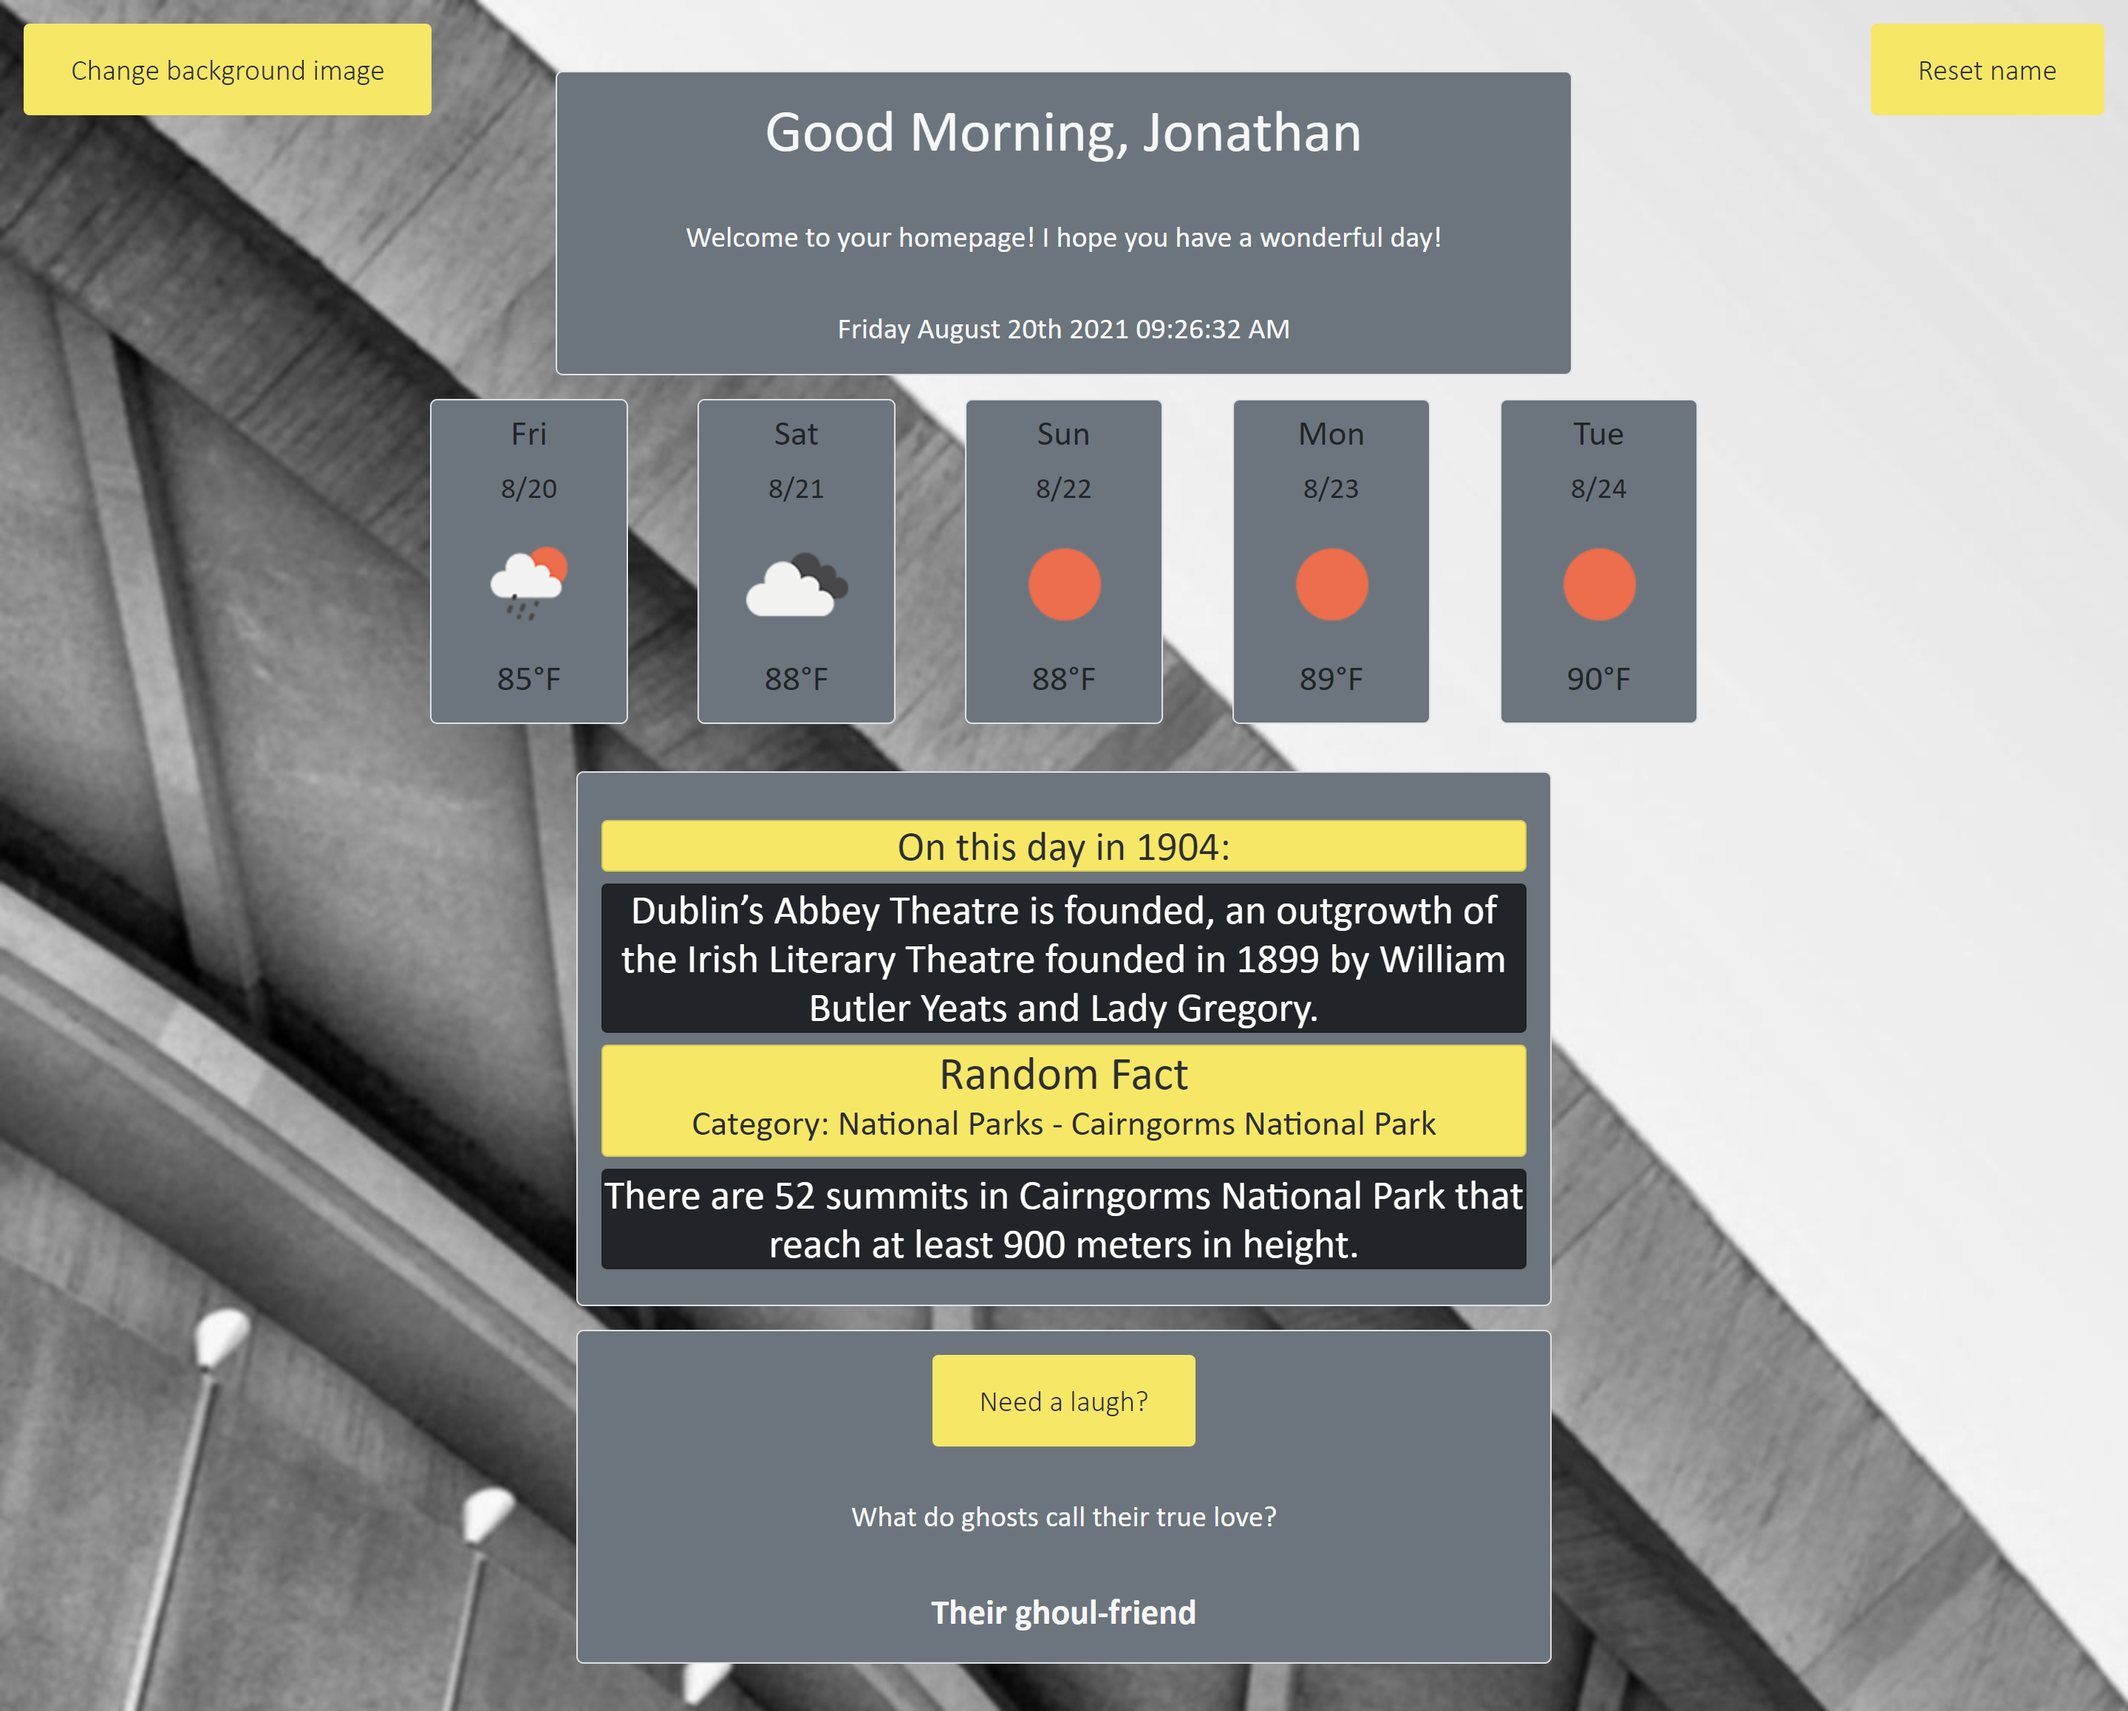
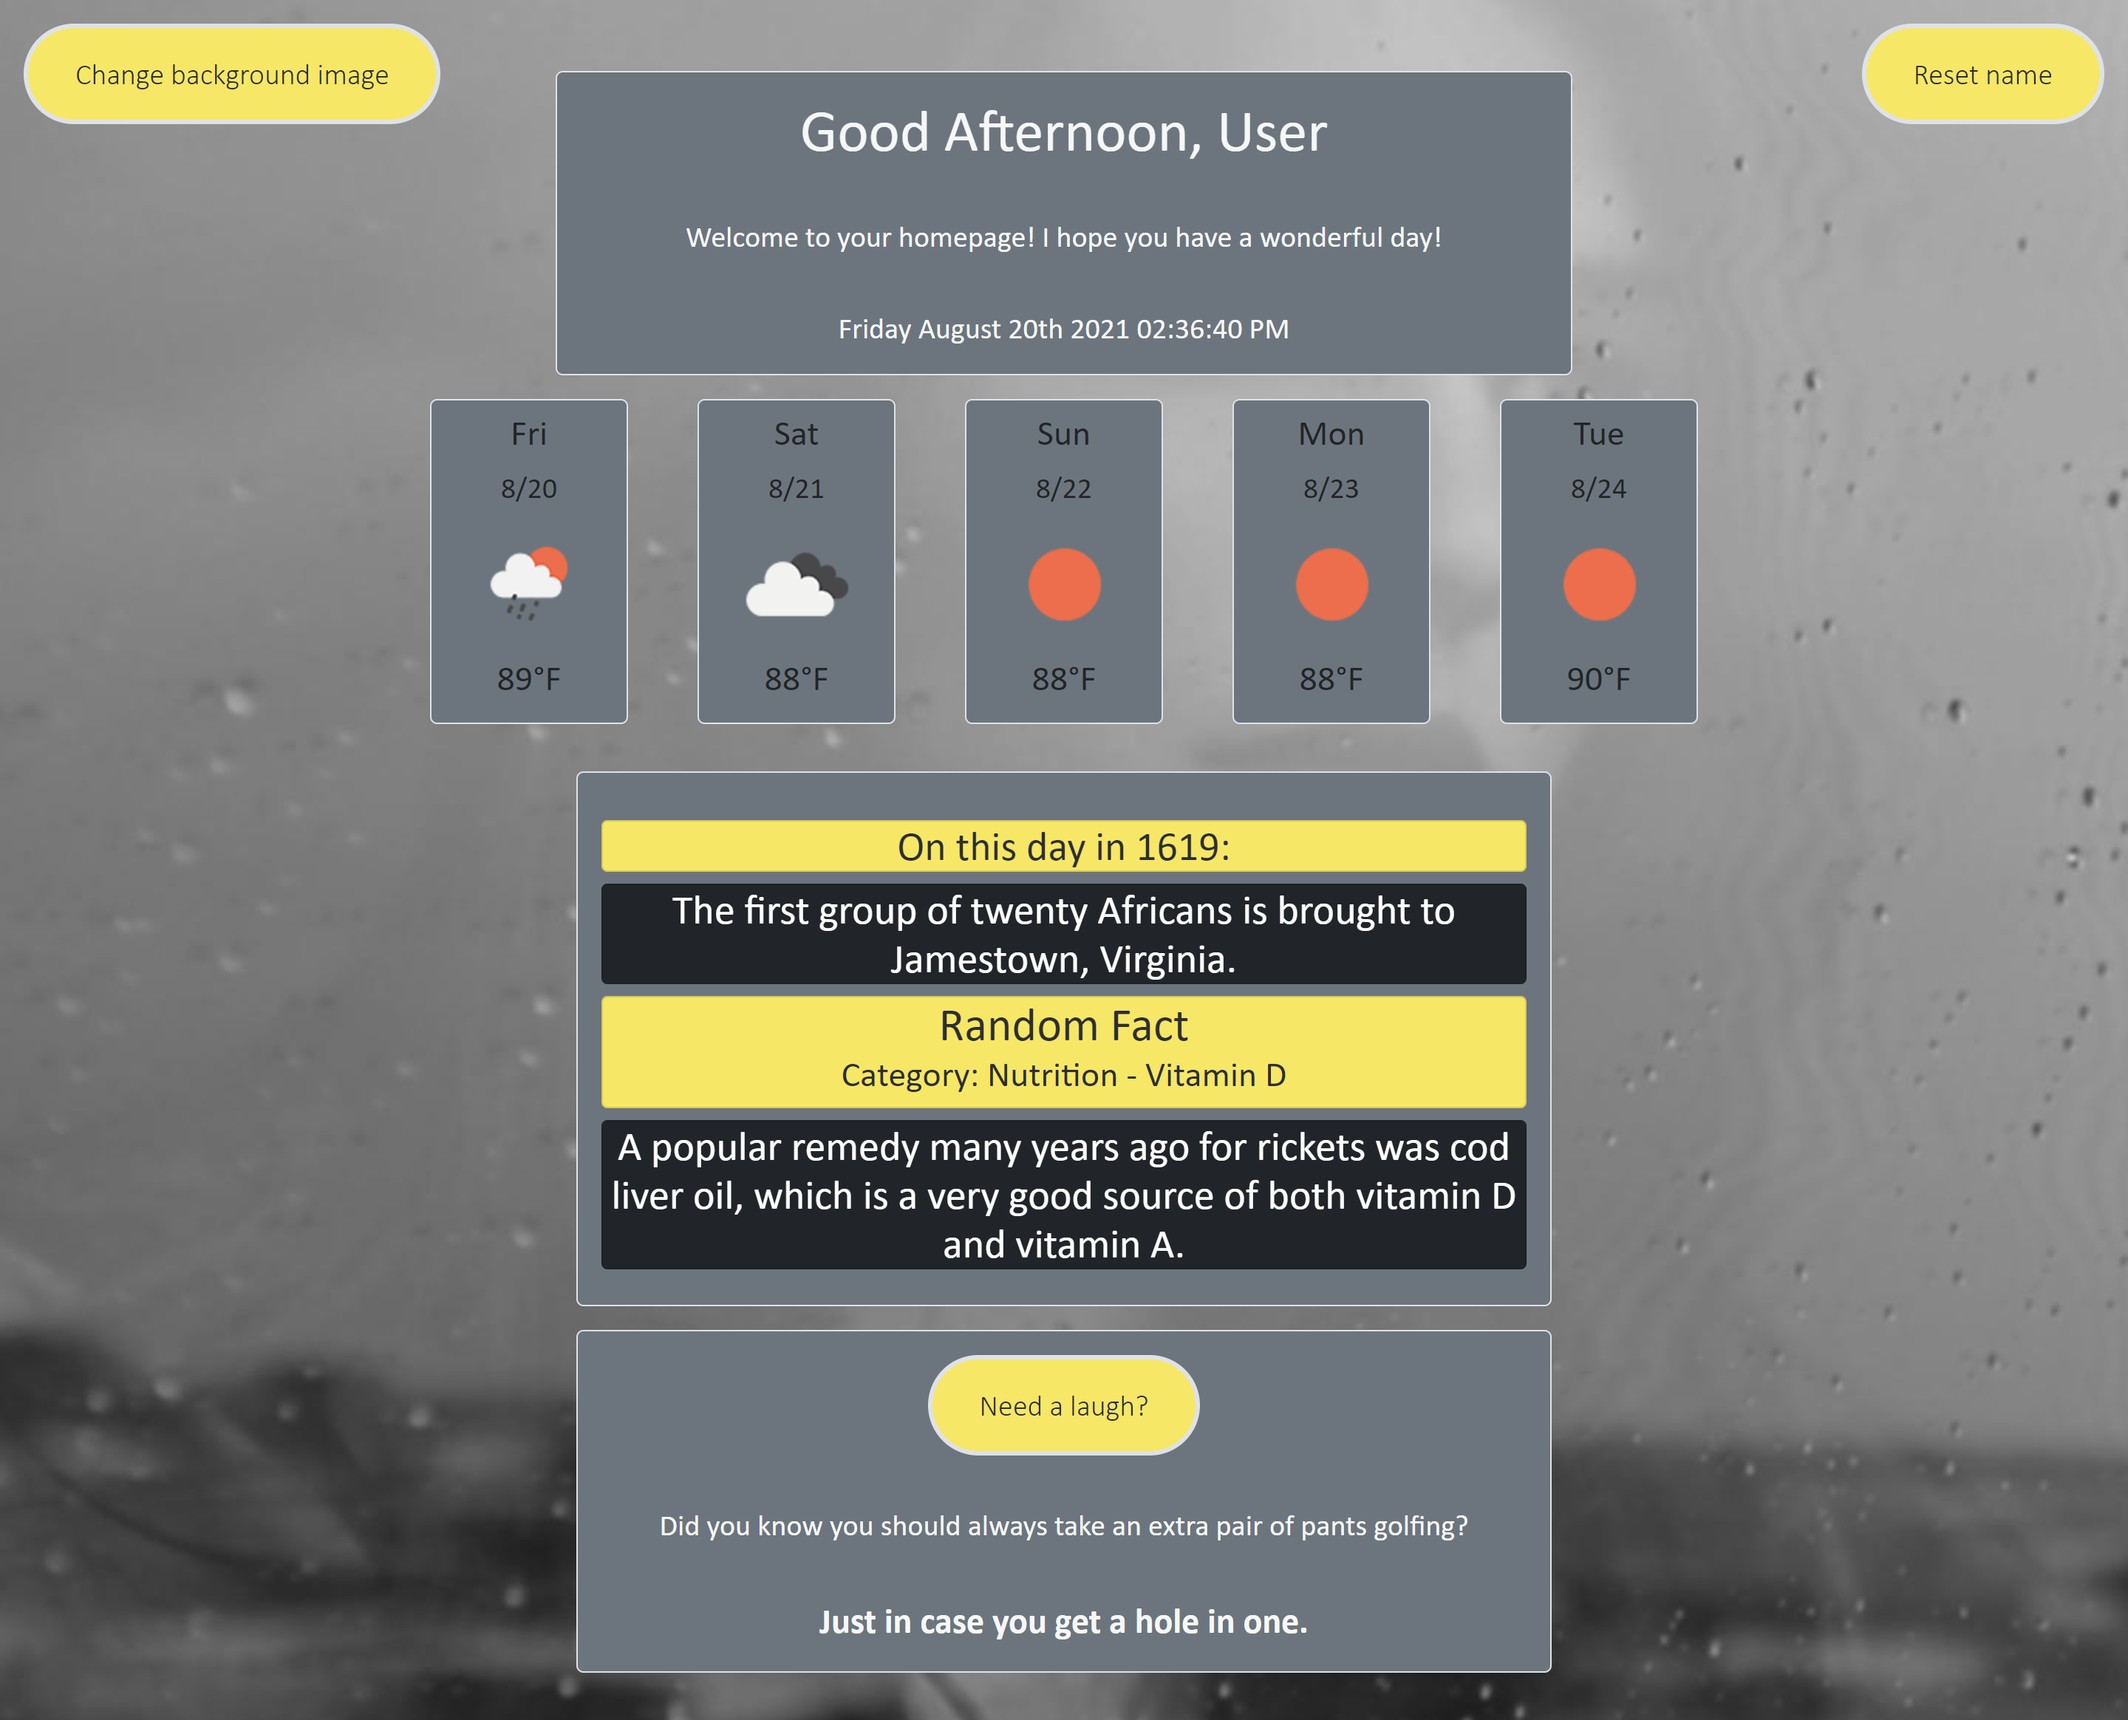
Updated button appearance, added comments to main js file.

diff --git a/index.html b/index.html
@@ -16,17 +16,17 @@
 <header class ="container mt-3 border rounded-3 bg-secondary text-left w-50 p-3 headerbox">
     <h1 class="invisible" id="greetingSpan"><span class="header"></span> 
     <span id="name-slot"></span></h1>
-    <input placeholder="enter name here" class = "name" type="text"> 
+    <input placeholder="Enter name here" class = "name" type="text"> 
     <button class="submit">Enter name to display homepage</button> 
     <p class="invisible" id="greetingSubheader"> Welcome to your homepage! I hope you have a wonderful day! </p>
     <p class="invisible timeHeader" id="currentDay"></p>
-    <button class="invisible position-absolute top-0 end-0 m-3" id="renameBtn">Reset name</button> 
-    <button class="position-absolute top-0 start-0 m-3" id="backgroundBtn">Change background image</button> 
+    <button class="invisible position-absolute top-0 end-0 m-3 rounded-pill border border-3" id="renameBtn">Reset name</button> 
+    <button class="position-absolute top-0 start-0 m-3 rounded-pill border border-3" id="backgroundBtn">Change background image</button> 
 </header>
 
 <main class="invisible">
     <section class="d-flex justify-content-center">
-        <button class="mt-3 border" id="weatherBtn">Get local weather <br> (Please enable browser geolocation before you click!)</button>
+        <button class="mt-3 border border-3 rounded-pill" id="weatherBtn">Click for local weather forecast<br> (Please enable browser geolocation before you click!)</button>
         <ul class="justify-content-space-between" id="weatherCards">
             <li class="list-group-item mt-3 border rounded-3 bg-secondary text-center" id="card">
                 <h4 id="day0"></h4>
@@ -64,7 +64,7 @@
     <section class ="container mt-3 border rounded-3 bg-secondary text-left w-50 p-3" id="fact-generator">
     </section>
     <section class ="container mt-3 border rounded-3 bg-secondary text-left w-50 p-3" id= "jokeGenerator">
-        <button class="buttons" id="jokeButton" type="button">Need a laugh?</button>
+        <button class="buttons rounded-pill border border-3" id="jokeButton" type="button">Need a laugh?</button>
         <p id="setup"></p>
         <p id="punchline"></p>
     </section>

diff --git a/assets/js/script.js b/assets/js/script.js
@@ -13,6 +13,7 @@ var greetingSubheader = document.getElementById("greetingSubheader");
 var timeHeader = document.querySelector(".timeHeader");
 var mainContent = document.querySelector("main");
 
+//Functions that run on page load
 generateBackground();
 
 var interval = setInterval(function () {
@@ -43,12 +44,16 @@ var nameSubmissionButton = $(".submit");
 var nameEntryArea = $(".name");
 var nameGreeting = $("#name-slot");
 
+
+//Displays the page when there is a name in local storage. 
 if (localStorage["Name"] !== "") {
     hideNameInput();
     nameGreeting.text(localStorage["Name"]);
     displayPage();
 }
 
+
+//Handles when the user submits their name to display the rest of the page.
 nameSubmissionButton.on("click", function () {
     localStorage["Name"] = nameEntryArea.val();
     hideNameInput();
@@ -77,6 +82,7 @@ function displayPage() {
     resetBtn.classList.remove("invisible");
 }
 
+//Resets the page to take a new name input.
 function resetPage() {
     localStorage.clear();
     greetingSpan.classList.add("invisible");
@@ -103,6 +109,8 @@ function generateBackground() {
         });
 }
 
+
+// Retrieves weather information and displays it on the page.
 let lat;
 let long;
 navigator.geolocation.getCurrentPosition(function (position) {
@@ -184,6 +192,8 @@ function renderWeather(weatherData) {
     document.getElementById("weatherBtn").style.display = "none";
 }
 
+
+//Button event listeners.
 resetBtn.addEventListener("click", resetPage);
 weatherBtn.addEventListener("click", getWeatherInfo);
 backgroundBtn.addEventListener("click", generateBackground);

diff --git a/assets/css/style.css b/assets/css/style.css
@@ -7,8 +7,8 @@
 }
 
 #weatherBtn {
-    width: 600px;
-    height: 125px;
+    width: 550px;
+    height: 100px;
     font-size: 20px;
 }
 
